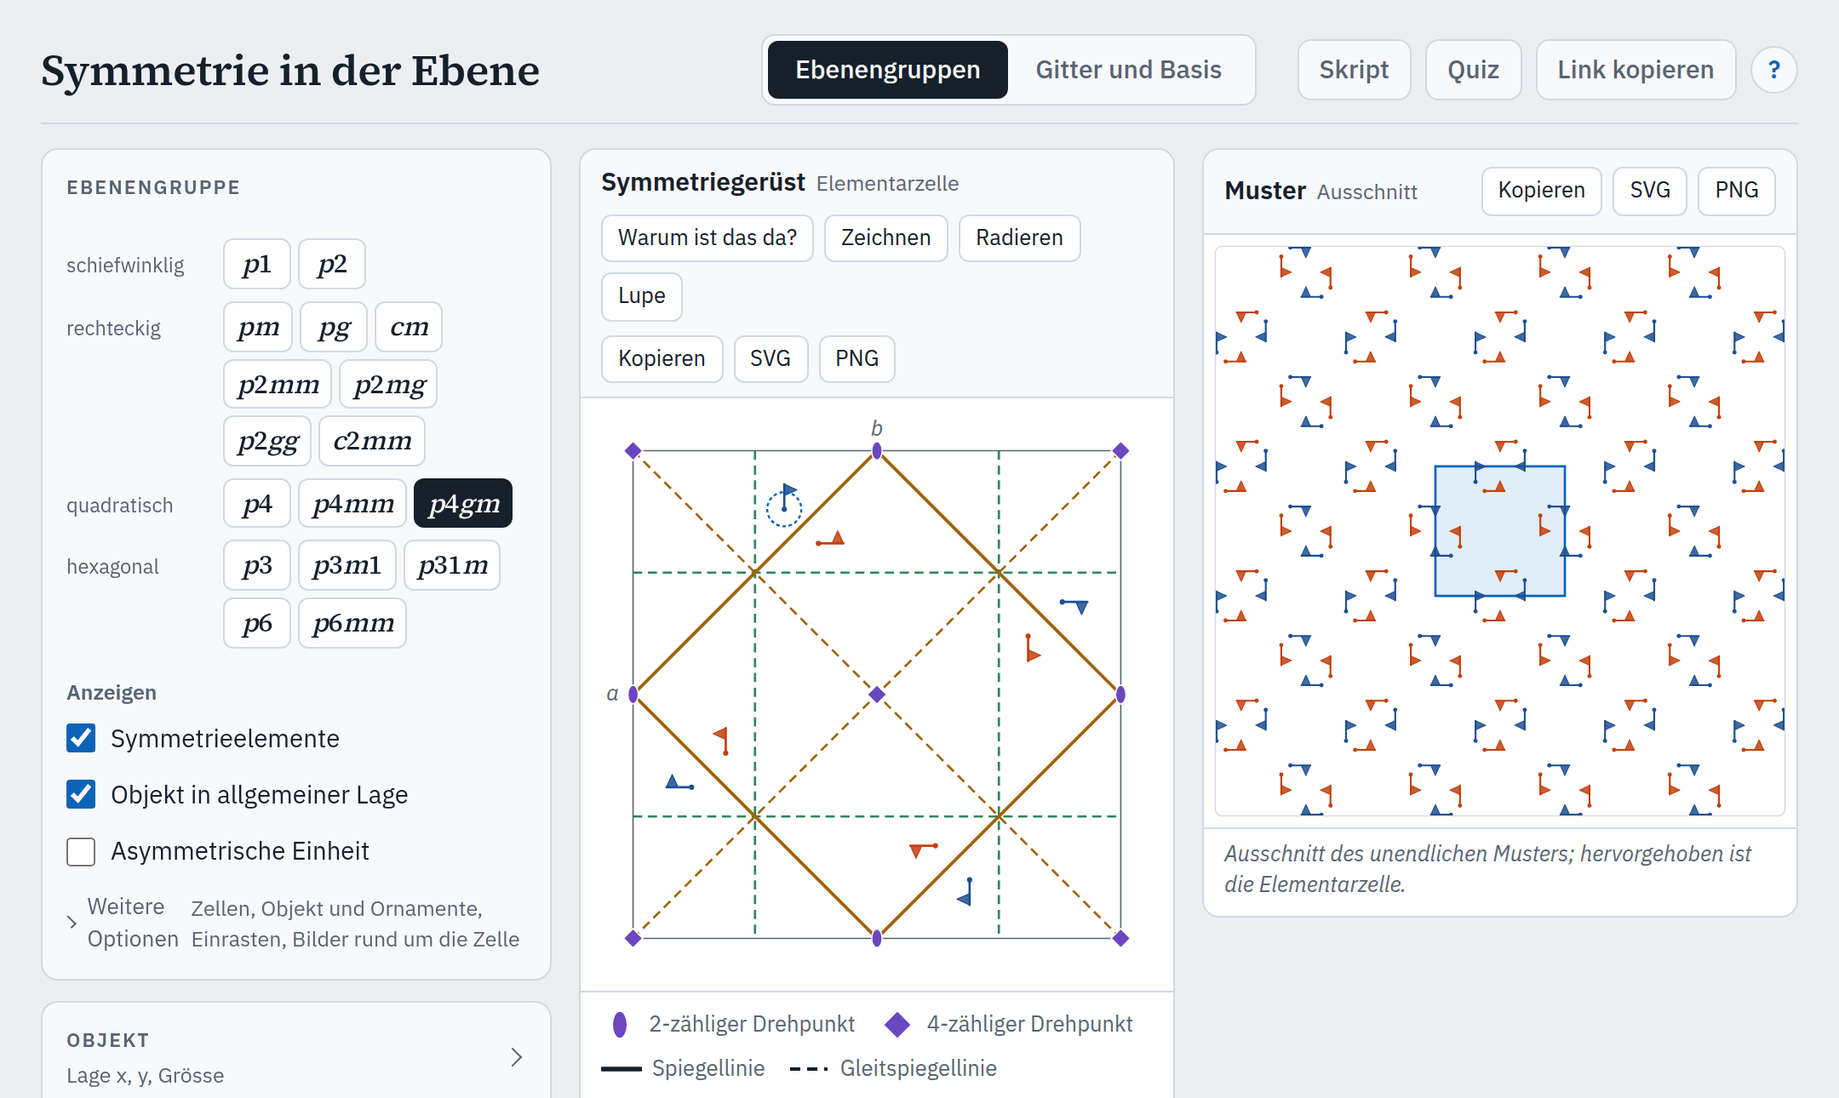
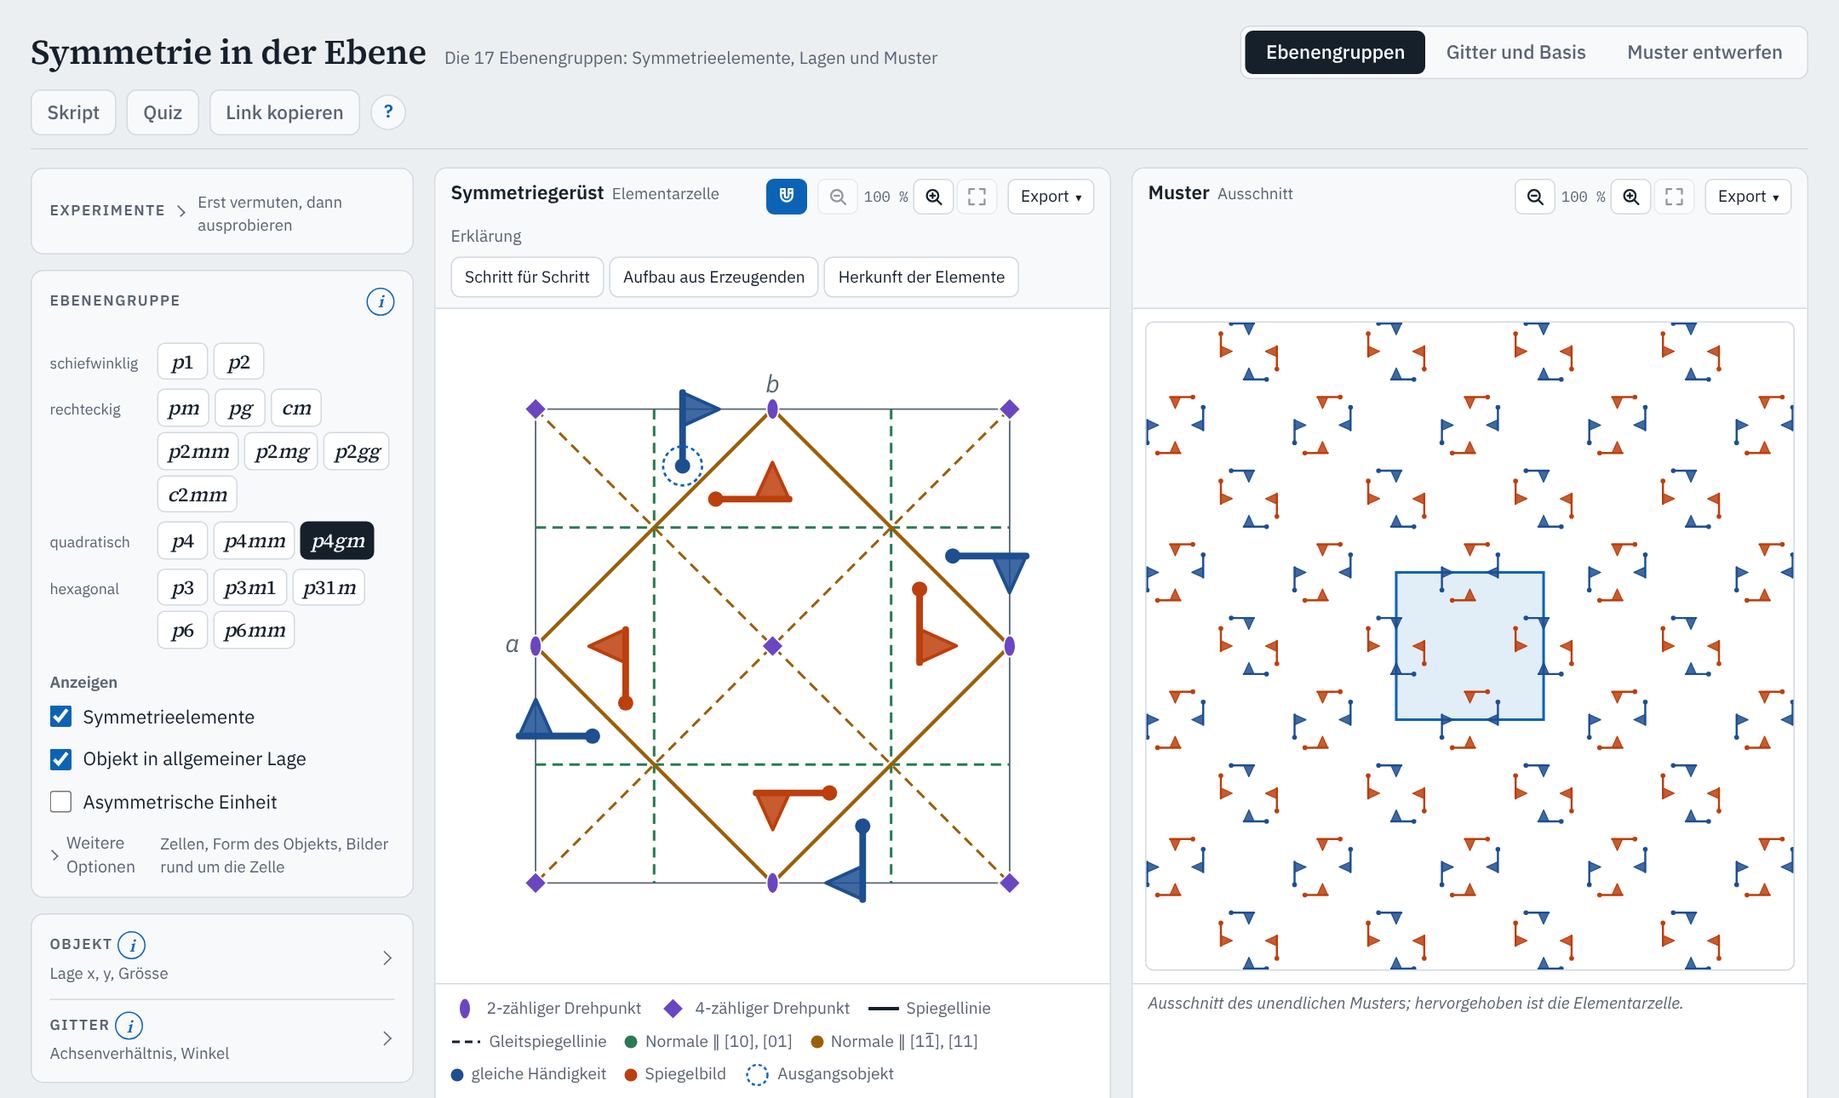
Gemeinsame Grundlage v0.22.0; README mit Bildern zu den Funktionen
common vom Tag v0.22.0 übernommen, Version im CHANGELOG eingesetzt. README: neues
Bildschirmfoto, Funktionen nach Modi mit je drei Bildern; tools/readme-bilder.mjs erzeugt sie.

Claude-Session: https://claude.ai/code/session_01L8SY95hsTWHeusDyUFRMq1

diff --git a/lib/common/js/version.js b/lib/common/js/version.js
@@ -1,2 +1,2 @@
 // Version von crystallography-common (Semantic Versioning). Gleich in CHANGELOG.md und im Tag vX.Y.Z.
-export const COMMON_VERSION = '0.21.0';
+export const COMMON_VERSION = '0.22.0';

diff --git a/README.md b/README.md
@@ -11,34 +11,69 @@ Teil einer Familie von Lern-Apps mit gemeinsamer Grundlage: [crystallography-com
 
 ### [Zur App: manganite.github.io/plane-groups](https://manganite.github.io/plane-groups/)
 
-![Symmetriegerüst und Muster der Ebenengruppe p4gm mit Objekt in allgemeiner Lage, daneben die Auswahl der 17 Ebenengruppen](docs/screenshot.png)
+![Symmetriegerüst und Muster der Ebenengruppe p4gm mit Fähnchen in allgemeiner Lage, daneben die Auswahl der 17 Ebenengruppen und die drei Erklärungen über dem Symmetriegerüst](docs/screenshot.png)
 
 ## Funktionen
 
-- **Modus „Ebenengruppen“:** Auswahl der 17 Ebenengruppen nach Kristallsystem.
-  - **Symmetriegerüst:** Elementarzelle (wahlweise 2 × 2 Zellen) mit allen Symmetrieelementen und den Symbolen der International Tables for Crystallography, Vol. A. Dazu gehören die Gleitspiegellinien, die das Symbol nicht nennt (z. B. in c2mm und p4mm). Wahlweise nach Blickrichtung gefärbt.
-  - **Objekt in allgemeiner Lage** (Fähnchen oder Kreis mit Komma wie in ITA) mit allen Bildern, ziehbar. Nahe einem Drehpunkt oder einer Spiegellinie rastet es ein. Die Kenndaten nennen dann Wyckoff-Lage, Lagesymmetrie und Zähligkeit.
-  - **Bilder rund um die Zelle** wahlweise wie in den Diagrammen der allgemeinen Lage in ITA: auch die Bilder im Rand um die Zelle, sodass die Gruppen um Ecken und Ränder vollständig sind.
-  - **Asymmetrische Einheit** einblendbar. Ihre Bedingungen in den Kenndaten (z. B. „0 ≤ x ≤ ½“) lassen sich einzeln antippen: Das Symmetriegerüst schattiert, wo die gewählten Bedingungen erfüllt sind, und hebt ihre Grenzlinien hervor; alle zusammen ergeben die asymmetrische Einheit.
-  - **Muster:** Ausschnitt des unendlichen Musters mit hervorgehobener Elementarzelle.
-  - **Kenndaten wie eine ITA-Seite:** Symbole, Kristallsystem, Bravais-Gitter, Punktgruppe (mit Link in die App „Stereographische Projektion“: dort das Pedion mit Flächenmuster und Blick senkrecht auf die Fläche; das Muster zeigt genau diese Punktgruppe), Ursprung, asymmetrische Einheit, Symmetrieoperationen, Wyckoff-Lagen. Jede Wyckoff-Lage lässt sich mit „setzen“ direkt ansteuern.
-  - **Gitterparameter** innerhalb des Kristallsystems frei: *b*/*a* (schiefwinklig, rechteckig), γ (schiefwinklig).
-  - **Erklärungen über dem Symmetriegerüst** (Auswahl im Kopf von Tafel A, immer nur eine; Leiste unter der Zeichnung):
-    - **Schritt für Schritt:** Das Objekt wird mit jeder Symmetrieoperation einzeln abgebildet, in der Reihenfolge der Liste in ITA (bei zentrierten Gruppen mit (½, ½)+ als 1′, 2′, …), zuletzt mit den Gittertranslationen. Die Bilder liegen zuerst dort, wohin die Koordinaten der Liste zeigen, auch ausserhalb der Zelle; der Weg zeigt, wie die Operation wirkt. Fällt ein Bild auf ein früheres (spezielle Lage), nennt die Erklärung die Zahl der bisher verschiedenen Stellen; am Ende bleibt die Zähligkeit der Wyckoff-Lage. In den Kenndaten ist die Zeile der aktuellen Operation markiert.
-    - **Aufbau aus Erzeugenden:** Die Symmetrieelemente erscheinen Schritt für Schritt. Zuerst kommen die Erzeugenden nach ITA („Generators selected“), dann, was aus ihren Verknüpfungen mit den Gittertranslationen folgt. Neue Elemente sind hervorgehoben.
-    - **„Herkunft der Elemente“:** Ein Element wählen zeigt, aus welchen zwei Operationen es folgt (*C* = *A* ∘ *B*). Das Fähnchen läuft die Schritte ab, die passende Regel wird genannt (z. B. „Spiegelung + Translation schräg zur Linie = Gleitspiegelung“), dazu die Herleitung aus den Erzeugenden. Ist das Element nur eine Gitterkopie eines anderen (z. B. die Drehpunkte an den Ecken der Zelle), zeigt die Erklärung stattdessen das Vorbild und die Verschiebung.
+Drei Modi mit je einer Frage: verstehen („Ebenengruppen“), analysieren („Gitter und Basis“), gestalten („Muster entwerfen“). Links die Einstellungen, rechts Symmetriegerüst bzw. Struktur und das Muster, darunter die Kenndaten.
 
-- **Modus „Gitter und Basis“:** Eine Struktur aus Gitter (*b*/*a*, γ frei) und Basis aus Motiven mit eigener Symmetrie (Atom; ohne Eigensymmetrie Fähnchen, Blatt, Tropfen, Ranke; nur Drehsymmetrie Windräder 2, 3, 4, 6; mit Spiegelsymmetrie gleichschenkliges Dreieck m, Ziegel und längliche Insel 2mm, gleichseitiges Dreieck 3m, Quadrat 4mm, Sechseck 6mm), ausgewählt in Zeilen nach eigener Symmetrie, in vier Farben (Atomsorten). Motive lassen sich setzen, ziehen (mit Einrasten auf Zwölftel der Zelle), drehen, spiegeln (Fähnchen, Ornamente und Windräder), vergrössern und entfernen; „Rückgängig“ nimmt Änderungen an den Motiven zurück, „Alle Motive löschen“ leert die Basis. Werkzeuge und Handlungen stehen als Symbole über der Struktur, Einrasten und Zoom daneben.
-  - **Symmetrie bestimmen:** Die App bestimmt die Ebenengruppe in der Standardaufstellung der ITA mit konventioneller Zelle (*a*′, *b*′) und Ursprung und zeigt darüber Symmetrieelemente und asymmetrische Einheit. Die Kenndaten nennen je Motiv Lage, Wyckoff-Lage und Lagesymmetrie und, nach einer Änderung, wie sich die Gruppe geändert hat. Ein Knopf öffnet die Gruppe im Modus „Ebenengruppen“.
-  - **Vorgaben:** die fünf Bravais-Gitter; ein Dreiecksbeispiel in drei Stufen (pm → cm → p2mg); 2D-Materialien in Draufsicht (Graphen, h-BN, MoS₂ 1H, Kagome, Lieb-Gitter); die Archimedischen Parkettierungen 4.8.8, 3.4.6.4, 3.3.4.3.4 und 3.3.3.3.6 (chiral); Mauerwerk und Pflaster aus Ziegeln 2 : 1 (ohne Versatz, Läuferverband, um ein Drittel versetzt, Fischgrät- und Flechtverband); künstliches Spin-Eis (square, kagome, pinwheel). Bindungen zwischen nächsten Nachbarn wahlweise.
+### Ebenengruppen
 
-- **Modus „Muster entwerfen“** (#136): Ein eigenes Muster in einer gegebenen Ebenengruppe gestalten. Die Gruppe wählt man (Knöpfe je Kristallsystem); Gruppe und Zelle bleiben fest, die App bestimmt die Symmetrie nicht. Motive wie in „Gitter und Basis“ (dieselbe Auswahl, Farben, Grösse, Drehen, Spiegeln, Einrasten auf Drehpunkte und Spiegellinien) erscheinen sofort mit allen Bildern der Gruppe; Ziehen, Drehen und Entfernen eines Bildes wirken auf das Motiv (den Vertreter seiner Bahn). Gleiche Bilder erscheinen einmal, verschiedene bleiben alle: Ein Motiv ohne die Lagesymmetrie ihrer Lage zeigt dort mehrere Bilder übereinander. Die Kenndaten stehen wie bei einer Atomliste: je Motiv Wyckoff-Lage, Lagesymmetrie, Zahl der Bilder (und der überlagerten). Das Gitter folgt dem Kristallsystem der Gruppe. Aus „Gitter und Basis“ führt „In „Muster entwerfen“ weiterbearbeiten“ mit der bestimmten Gruppe hinüber (nötigenfalls umgestellt auf konventionelle Zelle und Ursprung nach ITA). Höchstens 48 Motive, je Vertreter mit der Zähligkeit der allgemeinen Lage gezählt. **Zeichnen:** Mit dem Werkzeug „Zeichnen“ in Tafel A ziehen: Jeder Strich erscheint mit allen Operationen der Gruppe, in Tafel A und im Muster, in der Farbe der gewählten Atomsorte (Spiegelbilder in derselben). „Radieren“ entfernt überfahrene Stücke, am Original und an allen Kopien zugleich, ein Strich behält seine Farbe; „Rückgängig“ nimmt Striche, Radieren und Änderungen an den Motiven zurück, „Alle Striche löschen“ entfernt alle Striche, „Alle Motive löschen“ alle Motive. Striche und Motive lassen sich kombinieren; die Werkzeuge „Wählen und ziehen“, „Hinzufügen“, Zeichnen und Radieren schliessen sich aus. Die Striche bleiben im Browser gespeichert (auch beim Wechsel der Gruppe), stehen aber nicht in der Link-Adresse.
+<table>
+<tr><td width="33%"><img src="docs/readme/eg-schritt.png" alt="Symmetriegerüst von p4mm, Schritt 4 von „Schritt für Schritt“"></td><td width="33%"><img src="docs/readme/eg-herkunft.png" alt="Herkunft eines 4-zähligen Drehpunkts in p4gm"></td><td width="33%"><img src="docs/readme/eg-muster.png" alt="Muster von p4gm mit Symmetrieelementen"></td></tr>
+<tr><td>„Schritt für Schritt“ in <i>p</i>4<i>mm</i></td><td>„Herkunft der Elemente“ in <i>p</i>4<i>gm</i></td><td>Muster mit Symmetrieelementen</td></tr>
+</table>
+
+Auswahl der 17 Ebenengruppen nach Kristallsystem.
+
+- **Symmetriegerüst:** Elementarzelle (wahlweise 2 × 2 Zellen) mit allen Symmetrieelementen und den Symbolen der International Tables for Crystallography, Vol. A. Dazu gehören die Gleitspiegellinien, die das Symbol nicht nennt (z. B. in c2mm und p4mm). Wahlweise nach Blickrichtung gefärbt.
+- **Objekt in allgemeiner Lage** (Fähnchen oder Kreis mit Komma wie in ITA) mit allen Bildern, ziehbar. Nahe einem Drehpunkt oder einer Spiegellinie rastet es ein. Die Kenndaten nennen dann Wyckoff-Lage, Lagesymmetrie und Zähligkeit.
+- **Bilder rund um die Zelle** wahlweise wie in den Diagrammen der allgemeinen Lage in ITA: auch die Bilder im Rand um die Zelle, sodass die Gruppen um Ecken und Ränder vollständig sind.
+- **Asymmetrische Einheit** einblendbar. Ihre Bedingungen in den Kenndaten (z. B. „0 ≤ x ≤ ½“) lassen sich einzeln antippen: Das Symmetriegerüst schattiert, wo die gewählten Bedingungen erfüllt sind, und hebt ihre Grenzlinien hervor; alle zusammen ergeben die asymmetrische Einheit.
+- **Muster:** Ausschnitt des unendlichen Musters mit hervorgehobener Elementarzelle.
+- **Kenndaten wie eine ITA-Seite:** Symbole, Kristallsystem, Bravais-Gitter, Punktgruppe (mit Link in die App „Stereographische Projektion“: dort das Pedion mit Flächenmuster und Blick senkrecht auf die Fläche; das Muster zeigt genau diese Punktgruppe), Ursprung, asymmetrische Einheit, Symmetrieoperationen, Wyckoff-Lagen. Jede Wyckoff-Lage lässt sich mit „setzen“ direkt ansteuern.
+- **Gitterparameter** innerhalb des Kristallsystems frei: *b*/*a* (schiefwinklig, rechteckig), γ (schiefwinklig).
+- **Erklärungen über dem Symmetriegerüst** (Auswahl im Kopf von Tafel A, immer nur eine; Leiste unter der Zeichnung):
+  - **Schritt für Schritt:** Das Objekt wird mit jeder Symmetrieoperation einzeln abgebildet, in der Reihenfolge der Liste in ITA (bei zentrierten Gruppen mit (½, ½)+ als 1′, 2′, …), zuletzt mit den Gittertranslationen. Die Bilder liegen zuerst dort, wohin die Koordinaten der Liste zeigen, auch ausserhalb der Zelle; der Weg zeigt, wie die Operation wirkt. Fällt ein Bild auf ein früheres (spezielle Lage), nennt die Erklärung die Zahl der bisher verschiedenen Stellen; am Ende bleibt die Zähligkeit der Wyckoff-Lage. In den Kenndaten ist die Zeile der aktuellen Operation markiert.
+  - **Aufbau aus Erzeugenden:** Die Symmetrieelemente erscheinen Schritt für Schritt. Zuerst kommen die Erzeugenden nach ITA („Generators selected“), dann, was aus ihren Verknüpfungen mit den Gittertranslationen folgt. Neue Elemente sind hervorgehoben.
+  - **„Herkunft der Elemente“:** Ein Element wählen zeigt, aus welchen zwei Operationen es folgt (*C* = *A* ∘ *B*). Das Fähnchen läuft die Schritte ab, die passende Regel wird genannt (z. B. „Spiegelung + Translation schräg zur Linie = Gleitspiegelung“), dazu die Herleitung aus den Erzeugenden. Ist das Element nur eine Gitterkopie eines anderen (z. B. die Drehpunkte an den Ecken der Zelle), zeigt die Erklärung stattdessen das Vorbild und die Verschiebung.
+
+### Gitter und Basis
+
+<table>
+<tr><td width="33%"><img src="docs/readme/struktur-hbn.png" alt="Struktur von h-BN mit bestimmter Gruppe p3m1"></td><td width="33%"><img src="docs/readme/struktur-parkett.png" alt="Archimedische Parkettierung 3.4.6.4"></td><td width="33%"><img src="docs/readme/struktur-mauer.png" alt="Fischgrätverband aus Ziegeln"></td></tr>
+<tr><td>h-BN: Gruppe aus Gitter und Basis bestimmt</td><td>Parkettierung 3.4.6.4</td><td>Fischgrätverband</td></tr>
+</table>
+
+Eine Struktur aus Gitter (*b*/*a*, γ frei) und Basis aus Motiven mit eigener Symmetrie (Atom; ohne Eigensymmetrie Fähnchen, Blatt, Tropfen, Ranke; nur Drehsymmetrie Windräder 2, 3, 4, 6; mit Spiegelsymmetrie gleichschenkliges Dreieck m, Ziegel und längliche Insel 2mm, gleichseitiges Dreieck 3m, Quadrat 4mm, Sechseck 6mm), ausgewählt in Zeilen nach eigener Symmetrie, in vier Farben (Atomsorten). Motive lassen sich setzen, ziehen (mit Einrasten auf Zwölftel der Zelle), drehen, spiegeln (Fähnchen, Ornamente und Windräder), vergrössern und entfernen; „Rückgängig“ nimmt Änderungen an den Motiven zurück, „Alle Motive löschen“ leert die Basis. Werkzeuge und Handlungen stehen als Symbole über der Struktur, Einrasten und Zoom daneben.
+
+- **Symmetrie bestimmen:** Die App bestimmt die Ebenengruppe in der Standardaufstellung der ITA mit konventioneller Zelle (*a*′, *b*′) und Ursprung und zeigt darüber Symmetrieelemente und asymmetrische Einheit. Die Kenndaten nennen je Motiv Lage, Wyckoff-Lage und Lagesymmetrie und, nach einer Änderung, wie sich die Gruppe geändert hat. Ein Knopf öffnet die Gruppe im Modus „Ebenengruppen“.
+- **Vorgaben:** die fünf Bravais-Gitter; ein Dreiecksbeispiel in drei Stufen (pm → cm → p2mg); 2D-Materialien in Draufsicht (Graphen, h-BN, MoS₂ 1H, Kagome, Lieb-Gitter); die Archimedischen Parkettierungen 4.8.8, 3.4.6.4, 3.3.4.3.4 und 3.3.3.3.6 (chiral); Mauerwerk und Pflaster aus Ziegeln 2 : 1 (ohne Versatz, Läuferverband, um ein Drittel versetzt, Fischgrät- und Flechtverband); künstliches Spin-Eis (square, kagome, pinwheel). Bindungen zwischen nächsten Nachbarn wahlweise.
+
+### Muster entwerfen
+
+<table>
+<tr><td width="33%"><img src="docs/readme/entwurf-zeichnen.png" alt="Entwurf in p4gm mit Blättern, Atomen und gezeichneten Strichen"></td><td width="33%"><img src="docs/readme/entwurf-muster.png" alt="Muster des Entwurfs als Tapete"></td><td width="33%"><img src="docs/readme/entwurf-ranken.png" alt="Muster aus Ranken und Tropfen in p6"></td></tr>
+<tr><td>Zeichnen in <i>p</i>4<i>gm</i></td><td>dasselbe Muster als Tapete</td><td>Ranken und Tropfen in <i>p</i>6</td></tr>
+</table>
+
+Ein eigenes Muster in einer gegebenen Ebenengruppe gestalten. Die Gruppe wählt man (Knöpfe je Kristallsystem); Gruppe und Zelle bleiben fest, die App bestimmt die Symmetrie nicht. Motive wie in „Gitter und Basis“ (dieselbe Auswahl, Farben, Grösse, Drehen, Spiegeln, Einrasten auf Drehpunkte und Spiegellinien) erscheinen sofort mit allen Bildern der Gruppe; Ziehen, Drehen und Entfernen eines Bildes wirken auf das Motiv (den Vertreter seiner Bahn). Gleiche Bilder erscheinen einmal, verschiedene bleiben alle: Ein Motiv ohne die Lagesymmetrie ihrer Lage zeigt dort mehrere Bilder übereinander. Die Kenndaten stehen wie bei einer Atomliste: je Motiv Wyckoff-Lage, Lagesymmetrie, Zahl der Bilder (und der überlagerten). Das Gitter folgt dem Kristallsystem der Gruppe. Aus „Gitter und Basis“ führt „In „Muster entwerfen“ weiterbearbeiten“ mit der bestimmten Gruppe hinüber (nötigenfalls umgestellt auf konventionelle Zelle und Ursprung nach ITA). Höchstens 48 Motive, je Vertreter mit der Zähligkeit der allgemeinen Lage gezählt. **Zeichnen:** Mit dem Werkzeug „Zeichnen“ in Tafel A ziehen: Jeder Strich erscheint mit allen Operationen der Gruppe, in Tafel A und im Muster, in der Farbe der gewählten Atomsorte (Spiegelbilder in derselben). „Radieren“ entfernt überfahrene Stücke, am Original und an allen Kopien zugleich, ein Strich behält seine Farbe; „Rückgängig“ nimmt Striche, Radieren und Änderungen an den Motiven zurück, „Alle Striche löschen“ entfernt alle Striche, „Alle Motive löschen“ alle Motive. Striche und Motive lassen sich kombinieren; die Werkzeuge „Wählen und ziehen“, „Hinzufügen“, Zeichnen und Radieren schliessen sich aus. Die Striche bleiben im Browser gespeichert (auch beim Wechsel der Gruppe), stehen aber nicht in der Link-Adresse.
+
+### In allen Modi
+
 - **Muster als Tapete:** Das Muster ohne Zelle und Elemente; Zoom frei. Ornamente (Blatt, Tropfen, Ranke) gibt es als Motive in „Muster entwerfen“ und „Gitter und Basis“.
 - **„Darstellung“ in allen Modi:** nach Blickrichtung färben, Symmetrieelemente im Muster, Muster als Tapete (in „Ebenengruppen“ einfarbig, in „Gitter und Basis“ in den Farben der Motive), die asymmetrische Einheit füllen (in „Gitter und Basis“ die der bestimmten Gruppe, ohne Motive nicht möglich).
 - **Zoom und Verschieben** (#162, in allen Modi): beide Tafeln mit Mausrad, zwei Fingern oder −, + und Einpassen im Kopf der Tafel (auf dem Telefon nur zwei Finger). Tafel A bis 8-fach, ohne eigene Mitte um das Objekt bzw. das gewählte Motiv; den Ausschnitt verschieben Leertaste + Ziehen, zwei Finger, Ziehen ins Leere mit „Wählen und ziehen“ und die Pfeiltasten (Tafel A mit dem Fokus). Während einer Erklärung ruht der Zoom von Tafel A.
 - **Kenndaten** mit Schoenflies-Symbol und Signatur nach Conway.
 - **Kopieren und Speichern** je Tafel: Bild in die Zwischenablage, als SVG oder PNG.
 - **Hilfen:** Erste Schritte je Modus beim ersten Aufruf, Experimente zum Vermuten und Ausprobieren, Tooltips und ⓘ-Erklärungen; „?“ führt zur [Hilfeseite](https://manganite.github.io/plane-groups/hilfe.html), einer Anleitung zur Bedienung (Überblick, Bedienkonzepte, je Modus Seitenleiste, Tafeln und Kenndaten mit nummerierten Bildern, Anleitungen, Experimente, typische Fragen, Link, Speicher und Geräte); jedes ⓘ verweist an die passende Stelle.
+
+### Skript, Quiz und Hilfe
+
+<table>
+<tr><td width="33%"><img src="docs/readme/skript.png" alt="Skript, Abschnitt Gleitspiegelung, mit Inhaltsverzeichnis"></td><td width="33%"><img src="docs/readme/quiz.png" alt="Startseite des Quiz mit Stufen und Kapiteln"></td><td width="33%"><img src="docs/readme/hilfe.png" alt="Hilfeseite mit nummeriertem Bild der Tafel Entwurf"></td></tr>
+<tr><td>Skript mit Abbildungen aus der App</td><td>Quiz in drei Stufen</td><td>Hilfeseite: Anleitung zur Bedienung</td></tr>
+</table>
 
 - **[Skript](https://manganite.github.io/plane-groups/skript.html)** mit neun Kapiteln: Gitter, Elementarzelle und Basis; Symmetrie des Gitters; Gitter und Motiv; Gleitspiegelung und Verknüpfung; die 17 Ebenengruppen; Punktlagen; Tapeten, Ornamente und Kunst; Ebenengruppen bestimmen; die Signatur nach Conway (Vertiefung). Die Abbildungen zeichnet der Code der App, jede mit Link in die App; Vertiefungen sind gekennzeichnet. Auch als [PDF](https://manganite.github.io/plane-groups/skript.pdf) und als Anhang jedes Releases.
 - **[Quiz](https://manganite.github.io/plane-groups/quiz.html)** zu allen Kapiteln in drei Stufen (1 Grundlagen, 2 Anwendung, 3 Vertiefung; Stufe 3 bedeutet mehr Stoff, nicht unbedingt schwierigere Fragen): handgeschriebene Fragen und Fragengeneratoren, Bilder aus dem Code der App, sofortige Rückmeldung mit Link ins Skript und in die passende Ansicht der App. Standardmässig erscheinen nur fachlich geprüfte Fragen; „Auch ungeprüfte Fragen zeigen“ (oder `quiz.html?entwurf`) nimmt die Entwürfe dazu. Der Stand bleibt nur im Browser.
@@ -167,6 +202,7 @@ Im Modus „Muster entwerfen“ (`m=entwurf`; ohne gültige Gruppe `g` der leere
 | `js/verweise.js` | Links in die App „Stereographische Projektion“ (Punktgruppe einer Ebenengruppe) |
 | `js/hilfetexte.js` | Texte der Tooltips und ⓘ-Erklärungen, Erste Schritte und Experimente |
 | `hilfe.html`, `js/hilfe.js`, `js/hilfe-daten.js`, `hilfe/` | Hilfeseite: Erste Schritte als Anleitungen mit Bildern, Experimente als Liste (Reihenfolge `EXPERIMENTE` auch für die App); Bilder mit `node tools/common/hilfe-bilder.mjs` |
+| `tools/readme-bilder.mjs`, `docs/screenshot.png`, `docs/readme/` | Bilder dieses README: Bildschirmfoto und Bilder zu den Funktionen, je eine Ansicht der App (`BILDER`); neu mit `node tools/readme-bilder.mjs` |
 | `skript.html`, `js/skript.js`, `js/skizzen.js` | Skript; Abbildungen aus Link-Adressen der App, Skizzen für Skript und Quiz |
 | `quiz.html`, `js/quiz.js`, `js/quiz-kapitel.js` | Quiz: Ablauf aus `lib/common/`, Kapitel und Speicher dieser App |
 | `js/quiz-bank.js`, `js/quiz-gen.js`, `js/quiz-bild.js` | Handgeschriebene Fragen (mit Quelle und Prüfstatus), Generatoren für erzeugte Fragen, Bilder aus der App |

diff --git a/CHANGELOG.md b/CHANGELOG.md
@@ -14,8 +14,9 @@ Das Format folgt [Keep a Changelog](https://keepachangelog.com/de/1.1.0/), die V
 
 ### Geändert
 
+- **README:** neues Bildschirmfoto, die Funktionen nach Modi gegliedert, je mit drei Bildern aus der App, dazu Skript, Quiz und Hilfeseite im Bild. Die Bilder erzeugt `tools/readme-bilder.mjs` aus Ansichten der App (neu).
 - **Tooltips statt `title`** (Lücken der Regel, Leitfaden 5.3): Gruppenwahl in „Ebenengruppen“ und „Muster entwerfen“, Motive und Atomsorten, „setzen“, Bedingungen der asymmetrischen Einheit, Link zur Punktgruppe, „im Modus „Ebenengruppen“ ansehen“; neu die Umschalter Zelle / Muster auf dem Telefon. Der native `title` erschien auf dem iPad nicht und bei Motiven neben dem Tooltip der Zeile.
-- **Gemeinsame Grundlage** auf crystallography-common vX.Y.Z: Hilfeseite als Anleitung, gemeinsame Texte, Verweise aus dem ⓘ.
+- **Gemeinsame Grundlage** auf crystallography-common v0.22.0: Hilfeseite als Anleitung, gemeinsame Texte, Verweise aus dem ⓘ.
 
 ## [1.6.0] - 2026-11-15
 
